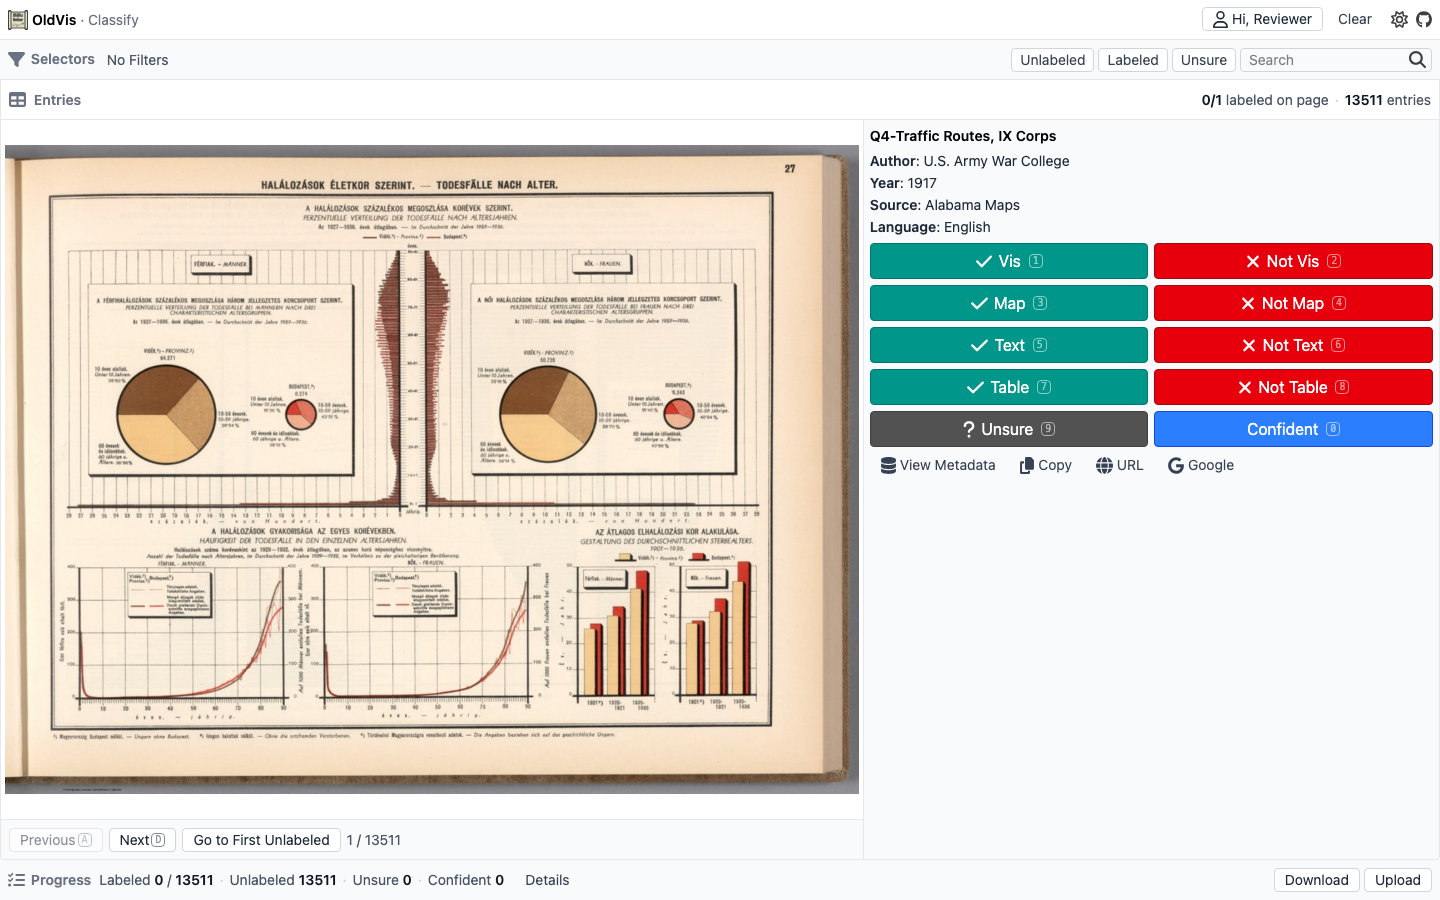
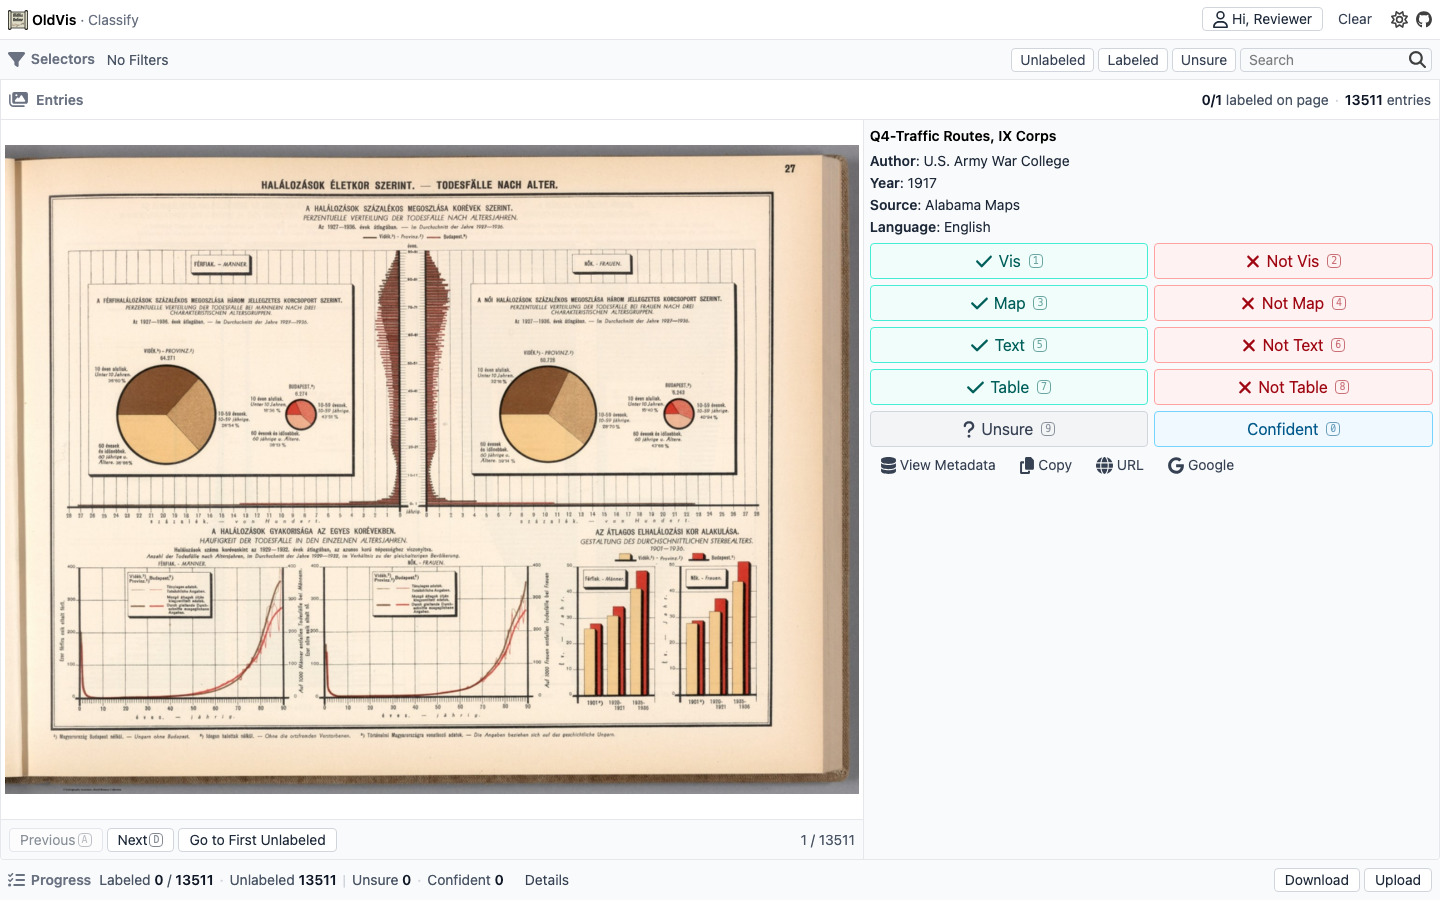
fix: standardize text casing and improve design documentation
- Updated button titles and text in various components to use sentence case for consistency (e.g., "Go to first unlabeled", "No entries matched").
- Revised DESIGN.md to clarify text casing guidelines for UI elements, aligning with major design systems.
- Enhanced user feedback in TheViewLabel and TheViewLabelProgress components by ensuring consistent text formatting.
- Updated test cases to reflect changes in text casing for improved accuracy.

diff --git a/src/components/TheViewLabelProgress.vue b/src/components/TheViewLabelProgress.vue
@@ -59,7 +59,7 @@ const upload = async () => {
     </div>
     <div class="strip-meta flex grow flex-wrap gap-x-1.5 gap-y-1 min-w-0 items-center">
       <span>
-        Labeled
+        labeled
         <span strip-meta-em>{{ labeledCount }}</span>
         /
         <span strip-meta-em>{{ visualizations.length }}</span>
@@ -69,7 +69,7 @@ const upload = async () => {
         aria-hidden="true"
       >·</span>
       <span>
-        Unlabeled
+        unlabeled
         <span strip-meta-em>{{ nUnlabeled }}</span>
       </span>
       <span
@@ -77,7 +77,7 @@ const upload = async () => {
         aria-hidden="true"
       >|</span>
       <span>
-        Unsure
+        unsure
         <span strip-meta-em>{{ nUnsure }}</span>
       </span>
       <span
@@ -85,7 +85,7 @@ const upload = async () => {
         aria-hidden="true"
       >·</span>
       <span>
-        Confident
+        confident
         <span strip-meta-em>{{ nConfident }}</span>
       </span>
       <button
@@ -94,7 +94,7 @@ const upload = async () => {
         :title="showDetails ? 'Hide category pair counts' : 'Show category pair counts'"
         @click="showDetails = !showDetails"
       >
-        {{ showDetails ? 'Hide Details' : 'Details' }}
+        {{ showDetails ? 'Hide details' : 'Details' }}
       </button>
       <template v-if="showDetails">
         <span>Vis/Not <span strip-meta-em>{{ nVis }} / {{ nNotVis }}</span></span>

diff --git a/test/components/TheViewLabel.test.ts b/test/components/TheViewLabel.test.ts
@@ -100,7 +100,7 @@ describe('theViewLabel interface', () => {
     const store = useAnnotationStore()
     store.addClassification('vis-a', Category.Vis)
 
-    const goto = wrapper.find('button[title="Go to First Unlabeled"]')
+    const goto = wrapper.find('button[title="Go to first unlabeled"]')
     await goto.trigger('click')
 
     expect(wrapper.text()).toContain('0/1')
@@ -113,7 +113,7 @@ describe('theViewLabel interface', () => {
       store.addClassification(uuid, Category.Vis)
     }
 
-    const goto = wrapper.find('button[title="Go to First Unlabeled"]')
+    const goto = wrapper.find('button[title="Go to first unlabeled"]')
     await goto.trigger('click')
 
     expect(useMessageStore().messages.some((d) => /no unlabeled/i.test(d.content))).toBe(true)

diff --git a/src/components/TheViewLabel.vue b/src/components/TheViewLabel.vue
@@ -290,10 +290,10 @@ const positionLabel = computed(() => {
               <button
                 type="button"
                 btn-secondary
-                title="Go to First Unlabeled"
+                title="Go to first unlabeled"
                 @click="gotoUnlabeled"
               >
-                Go to First Unlabeled
+                Go to first unlabeled
               </button>
             </div>
             <span class="strip-meta ml-auto">
@@ -307,7 +307,7 @@ const positionLabel = computed(() => {
       v-else
       class="text-xl m-auto"
     >
-      No Entries Matched
+      No entries matched
     </div>
   </div>
 </template>

diff --git a/src/composables/useSignInNotice.ts b/src/composables/useSignInNotice.ts
@@ -2,7 +2,7 @@ import { storeToRefs } from 'pinia'
 import { useStore as useMessageStore } from '~/stores/message'
 import { useStore as useUserStore } from '~/stores/user'
 
-export const NAME_NOTICE = 'Set a Name in the header so new annotations include your user id.'
+export const NAME_NOTICE = 'Set a name in the header so new annotations include your user id.'
 
 /**
  * Soft identity nudge via snackbar (not a permanent layout bar).

diff --git a/test/components/TheViewLabelProgress.test.ts b/test/components/TheViewLabelProgress.test.ts
@@ -105,8 +105,8 @@ describe('theViewLabelProgress import/export wiring', () => {
       global: { plugins: [pinia] },
     })
 
-    expect(wrapper.text()).toContain('Labeled')
-    expect(wrapper.text()).toContain('Unsure')
+    expect(wrapper.text()).toContain('labeled')
+    expect(wrapper.text()).toContain('unsure')
     expect(wrapper.text()).toContain('2')
     expect(wrapper.text()).toContain('1')
 

diff --git a/src/components/TheViewSelectors.vue b/src/components/TheViewSelectors.vue
@@ -33,7 +33,7 @@ const hasSelectorType = (type: SelectorType): boolean => (
     >
       <template v-if="selectors.length === 0">
         <div class="strip-meta px-1">
-          No Filters
+          No filters
         </div>
       </template>
       <template

diff --git a/src/components/VDataEntry.vue b/src/components/VDataEntry.vue
@@ -200,7 +200,7 @@ const googleHref = computed(() => (
         >
           <div class="i-fa6-solid:database my-auto" />
           <div class="my-auto">
-            View Metadata
+            View metadata
           </div>
         </button>
         <button

diff --git a/DESIGN.md b/DESIGN.md
@@ -96,7 +96,12 @@ Keep the type ladder short — prefer weight over size/family switches:
 | Label buttons | 16px (`text-base`) | regular            | Classification pairs only                           |
 
 - **System UI stack** only — no webfont, no mono in chrome (counts use `font-semibold`).
-- Chrome labels use **Title Case** (e.g. Go to First Unlabeled, Hide Details).
+- Chrome copy uses **sentence case** (capitalize the first word and proper nouns only) — e.g. Go to first unlabeled, Hide details, View metadata. This matches major design systems (Material, Fluent, Carbon, Polaris) and keeps dense productivity chrome quieter than Title Case.
+- **Section / strip titles** stay short UI names (`Entries`, `Selectors`, `Tags`, `Temporal`).
+- **Muted stats / units** stay lowercase (`101 matched · 13511 entries`, `years`; Progress metric words below).
+- **Sentinels** use lowercase values (`unknown`); short sentinel phrases use sentence case (`Unknown year`).
+- **Acronyms / products** keep conventional form (`URL`, `Google`, `CLIP`, `Top-K`, `OldVis`).
+- **Catalog / data values** are never re-cased (titles, authors, tags, abstracts as stored).
 - Nav brand: semibold family name + muted middle-dot task (`OldVis · Classify`).
 
 ## Layout
@@ -112,7 +117,7 @@ Classify entry layout: **image left (~3/5), metadata + label controls right (~2/
 
 **Objects cards (Segment):** Inspector hierarchy — **mark class**(es) as `■ Class · ■ Class` (Draw palette; `+N` only after 3 unique types) when marks exist; muted `Shape {geometry}` line for the region shape (Rect/Point/Polygon); `Last modified by {name}`; Details / Repeat / Marks on the full card with compact `h-6` section headers (small chevrons / +); mark editors as flat field rows. Do not collapse unselected objects to a single row.
 
-**Progress stats:** Coverage group first (`Labeled n / total · Unlabeled n` plus `Skipped` when the app has it), then `|`, then confidence tags (`Unsure · Confident`). Middots stay inside a group; `|` separates axes. Example (with Skipped): `Labeled 13 / 485 · Unlabeled 472 · Skipped 0 | Unsure 2 · Confident 5`. Details (Classify) sits after the tag group without a middot. In Segment, Unsure/Confident count multilabel image tags that include those values (not a partition of total).
+**Progress stats:** Coverage group first (`labeled n / total · unlabeled n` plus `skipped` when the app has it), then `|`, then confidence tags (`unsure · confident`). Middots stay inside a group; `|` separates axes. Example (with Skipped): `labeled 13 / 485 · unlabeled 472 · skipped 0 | unsure 2 · confident 5`. Details (Classify) sits after the tag group without a middot. In Segment, Unsure/Confident **buttons** stay single-word sentence-case labels; the Progress strip uses the lowercase forms. Unsure/Confident counts multilabel image tags that include those values (not a partition of total).
 
 Spacing is tight (`xs`/`sm`); prefer one workbench plane over nested heavy cards. Panels may use a light border + small radius; avoid multi-layer shadows.
 
@@ -161,7 +166,7 @@ Hints use the `kbd` badge on those buttons. Ignore shortcuts when focus is in an
 
 ### Status strips
 
-Dense horizontal rows (`status-strip` / `view-header`). Top = Selectors/Tools. Bottom = Progress + I/O. Image-footer nav stays under the image only; side-pane utilities (View Metadata, Copy, URL) stay in-pane without forming a half-width bar across the workbench. Inline strip **stats** use middot separators within a group (`strip-sep`: `1/1 labeled on page · 89 matched · 13511 entries`). Progress uses `|` between coverage and confidence-tag groups. Do not put middots around action controls (e.g. Details) — those sit after the stats with normal spacing.
+Dense horizontal rows (`status-strip` / `view-header`). Top = Selectors/Tools. Bottom = Progress + I/O. Image-footer nav stays under the image only; side-pane utilities (View metadata, Copy, URL) stay in-pane without forming a half-width bar across the workbench. Inline strip **stats** use middot separators within a group (`strip-sep`: `1/1 labeled on page · 89 matched · 13511 entries`). Progress uses `|` between coverage and confidence-tag groups. Do not put middots around action controls (e.g. Details) — those sit after the stats with normal spacing.
 
 ### Dialogs
 
@@ -188,7 +193,7 @@ Stay app-local: classification pairs, segmentation tool buttons, gallery facets,
 - Do use `OldVis · {Task}` in the nav; align document titles (e.g. `Classify · OldVis`).
 - Don't build a shared Vue button/card library until multiple apps truly duplicate chrome markup.
 - Don't add decorative gradients, hero imagery, or marketing card grids to labeling surfaces.
-- Don't block labeling behind identity; keep Set Name in the nav. Use a one-shot info snackbar for the unsigned nudge — not a permanent layout bar. The nudge stays until the user closes it or sets a name (same copy and chrome in every app: “Set a Name in the header…”).
+- Don't block labeling behind identity; keep Set Name in the nav. Use a one-shot info snackbar for the unsigned nudge — not a permanent layout bar. The nudge stays until the user closes it or sets a name (same copy and chrome in every app: “Set a name in the header…”).
 - Don't invent parallel color shortcuts per repo; match this token ladder when editing `uno.config.ts`.
 - Don't require every app to define every shortcut — Classify keeps `btn-label*`; Segment keeps `tool-btn` / `menu-*`; shared chrome shortcuts must match.
 - Don't move Classify labels under the image.
